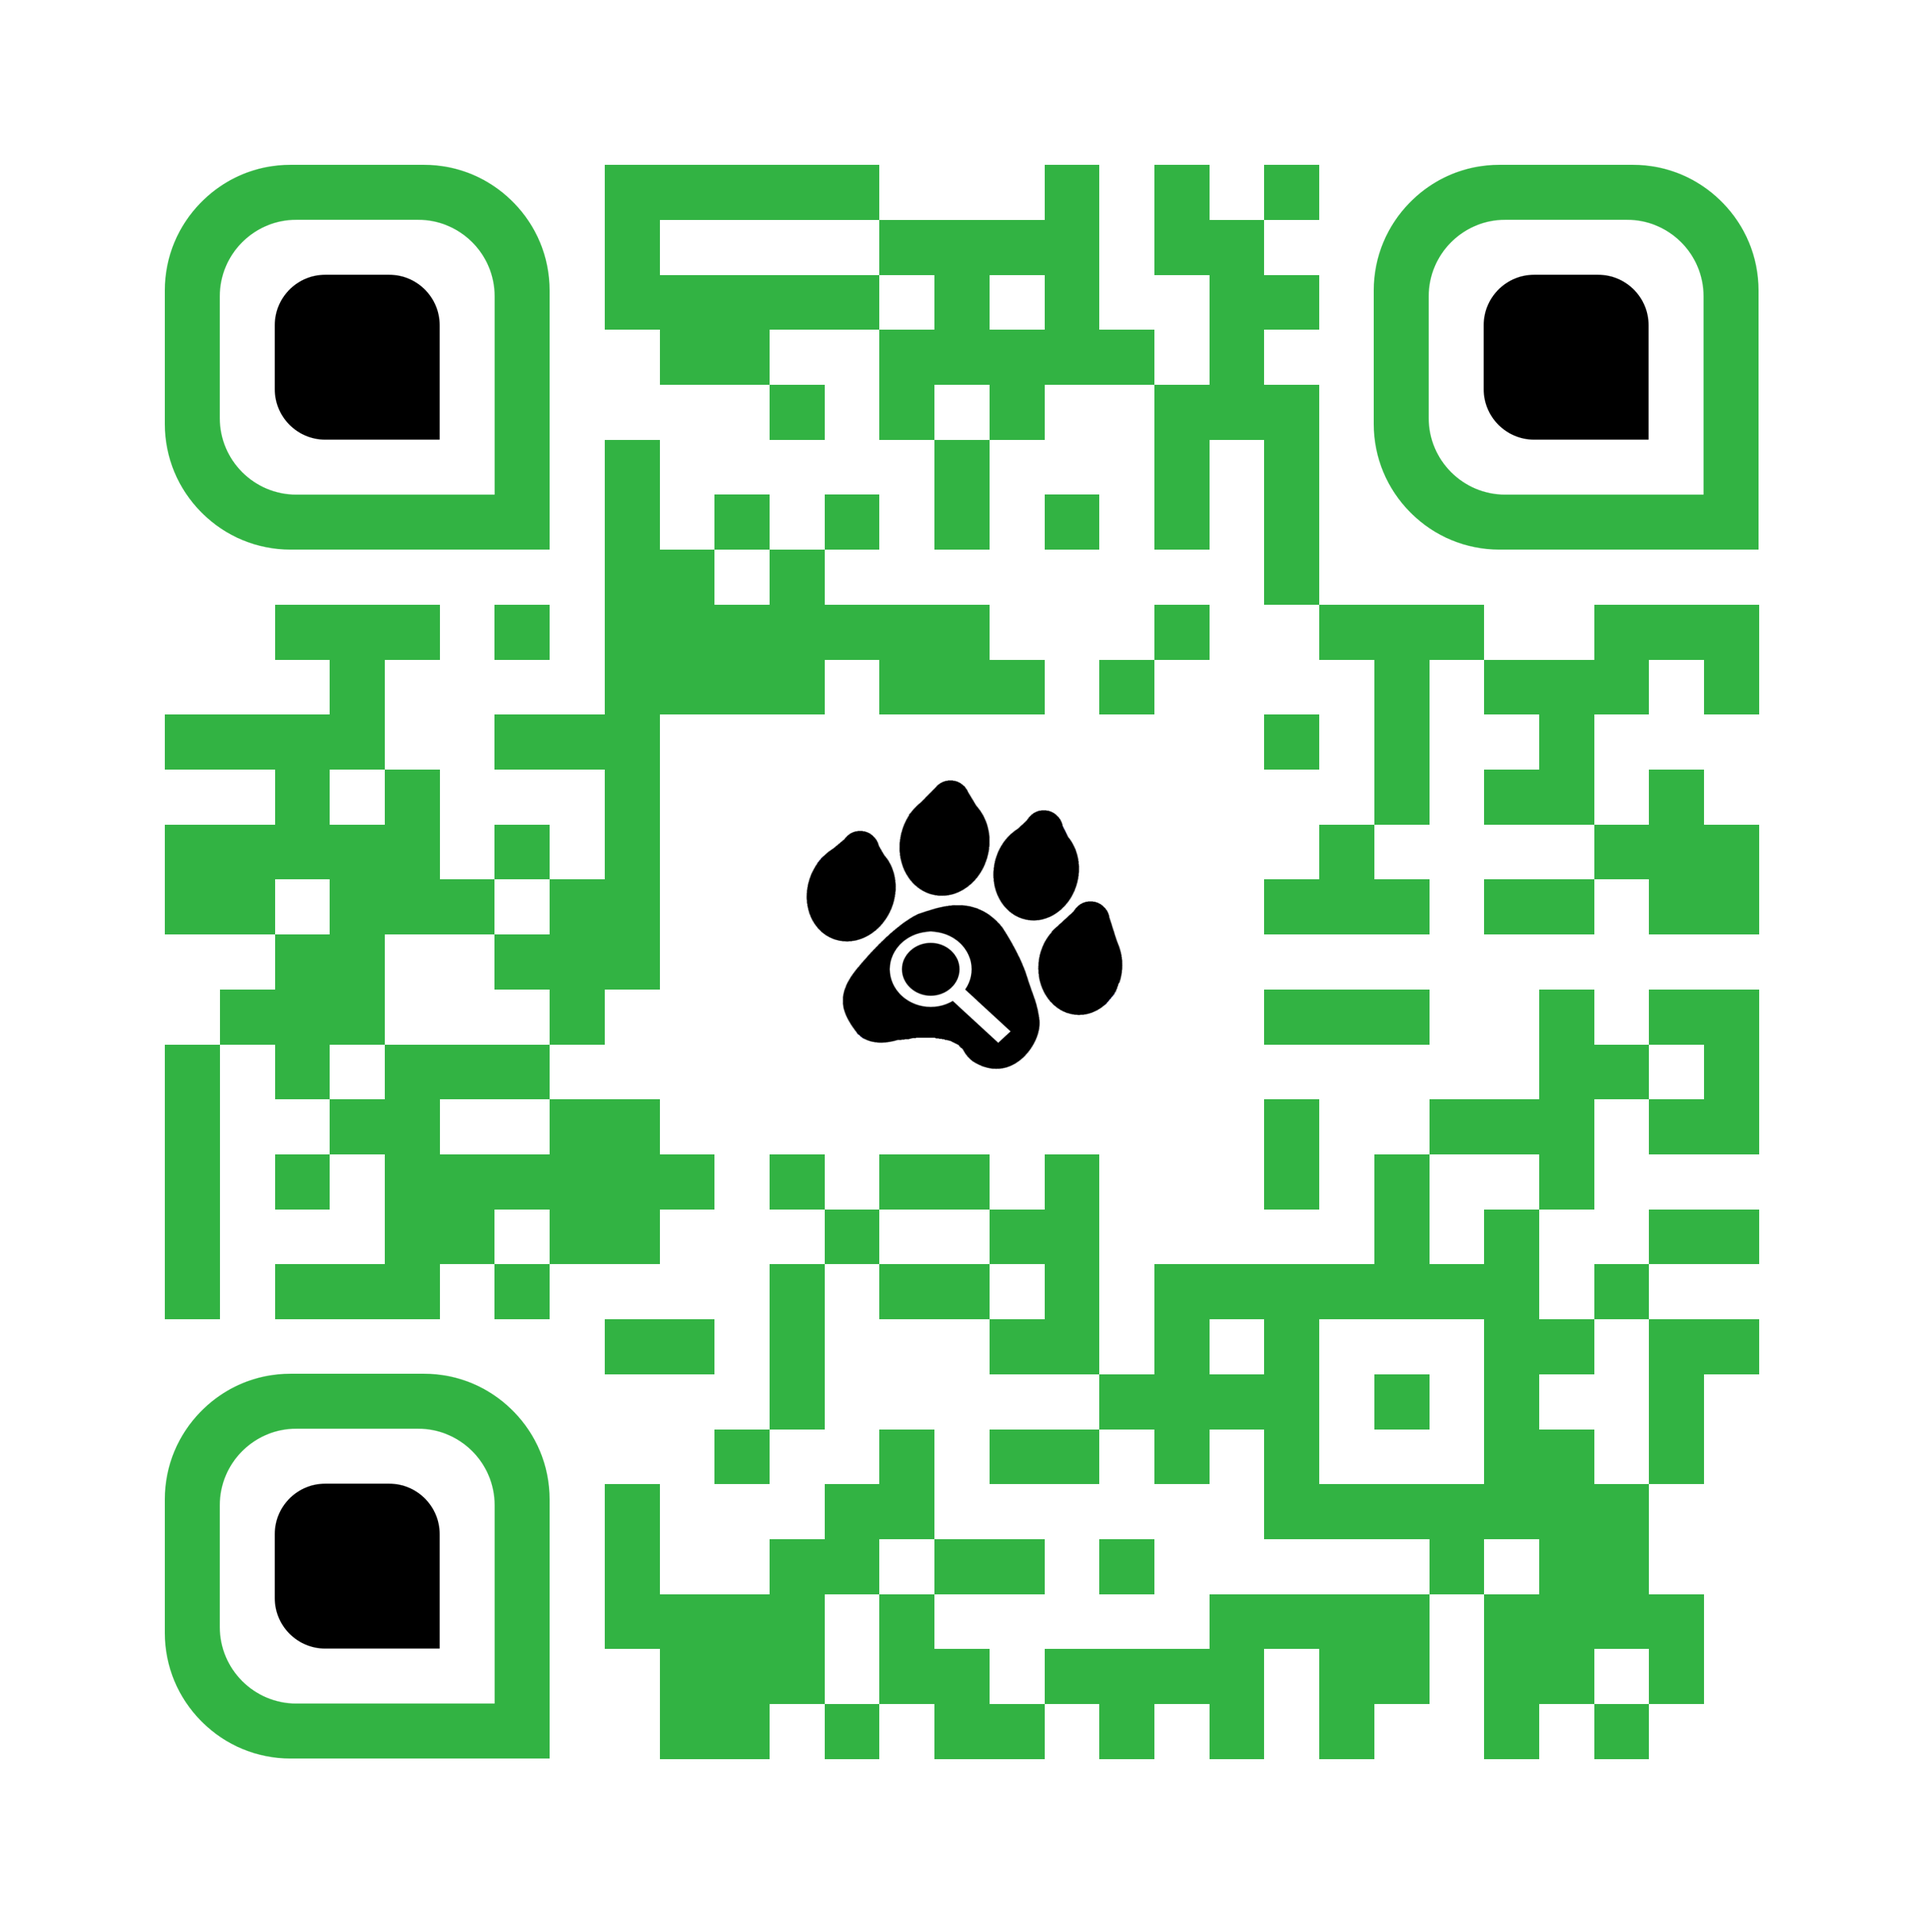
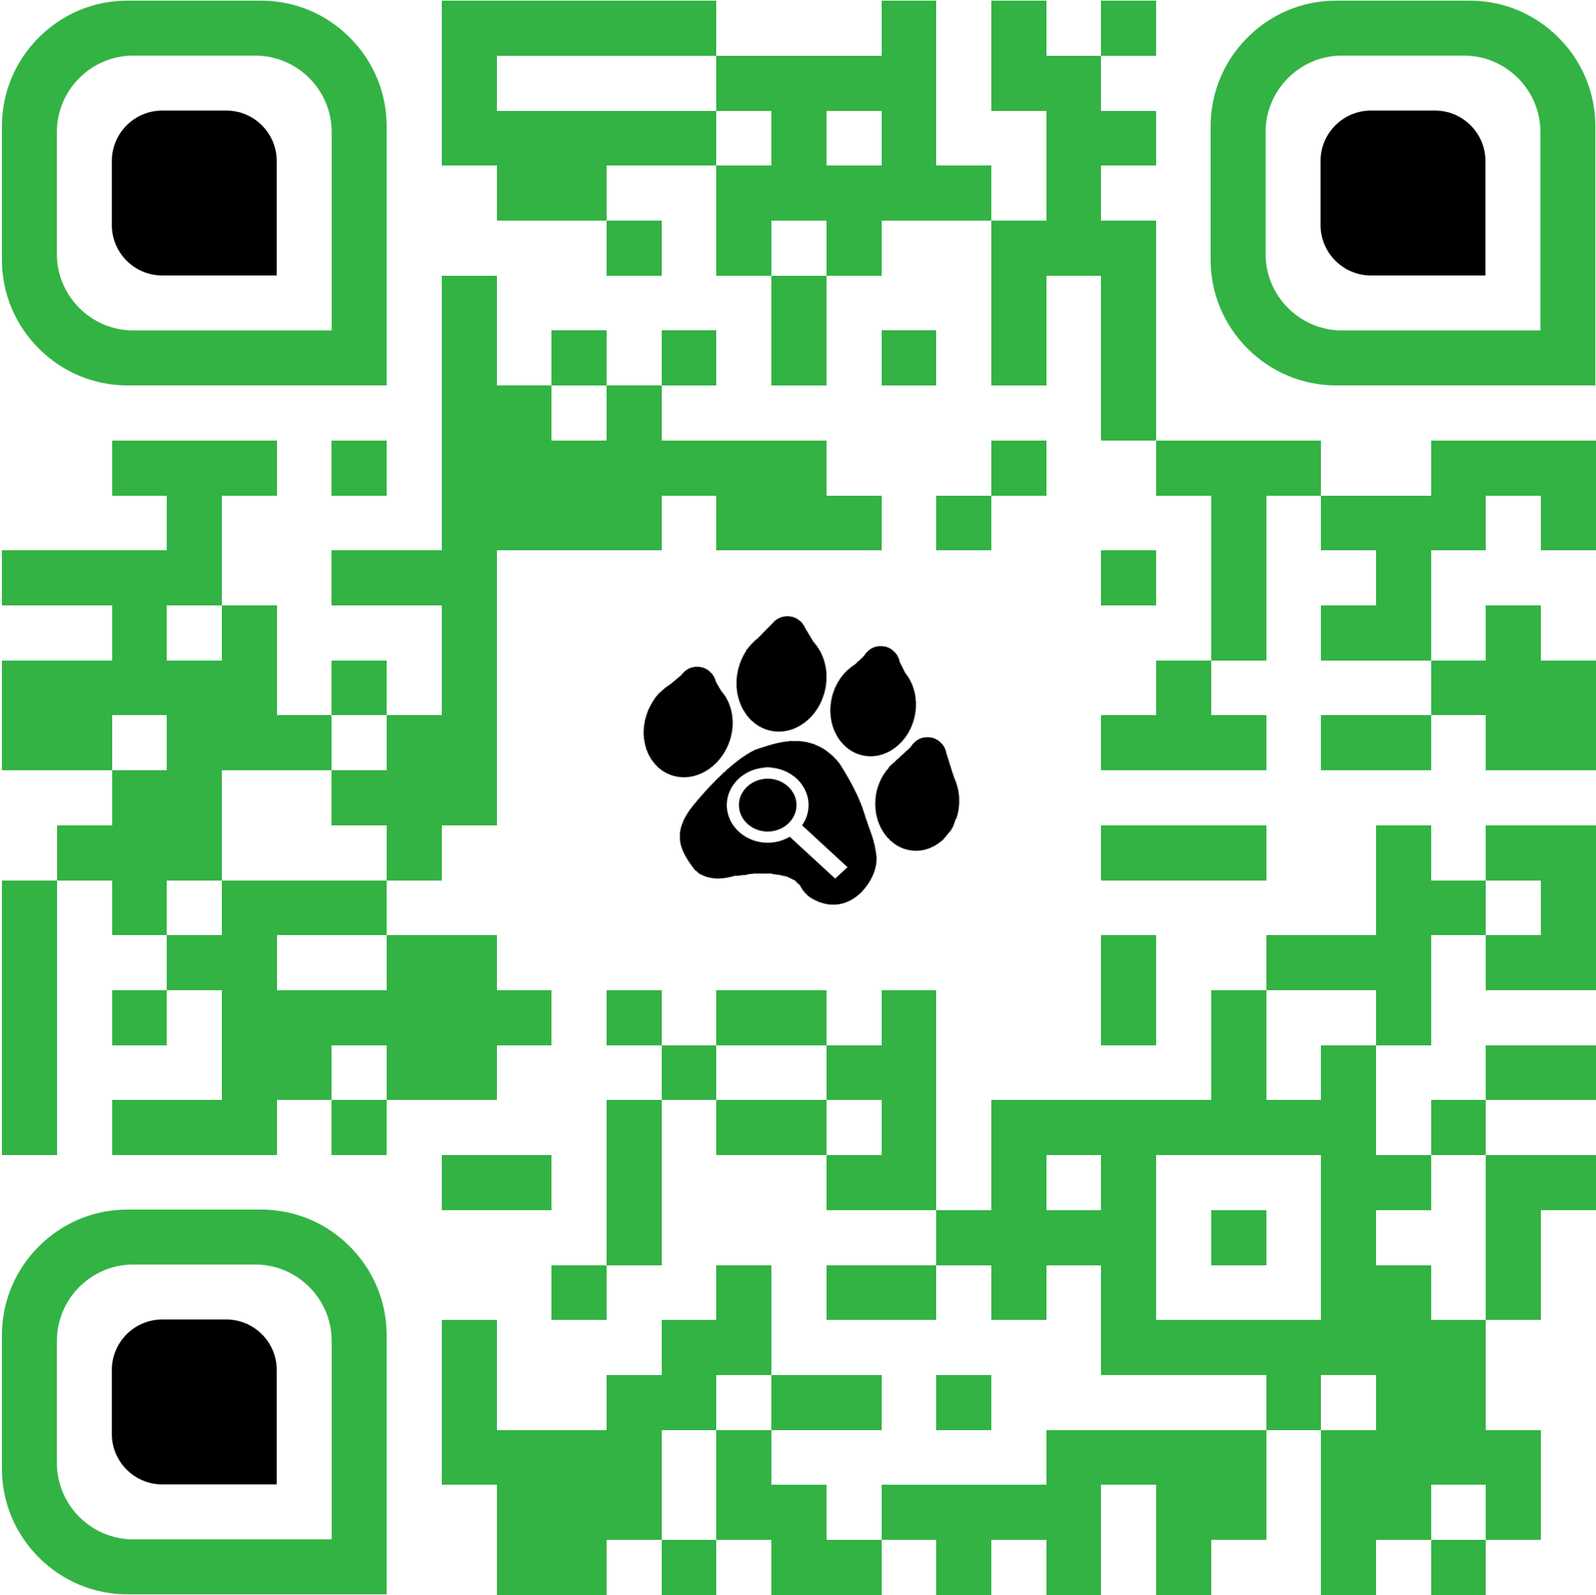
external profile pages

diff --git a/Frontend/screens/PetCard.js b/Frontend/screens/PetCard.js
@@ -28,7 +28,7 @@ export default class PetCard extends React.Component {
       if (this.state.qrOrImgToggle) {
         return (<View style={{flex: 1, flexDirection: 'row', marginTop: 10, marginLeft: 10}}>
         <QRCode
-        content={`retrievr-api.herokuapp.com/missing-posters#${this.props.selectedPet.id}`}
+        content={`retrievr-api.herokuapp.com/profile/${this.props.selectedPet.id}`}
         size={140}
         codeStyle='circle'
         outerEyeStyle='circle'
@@ -65,7 +65,7 @@ export default class PetCard extends React.Component {
     if (this.state.qrOrImgToggle) {
       return (<View style={{flex: 1, flexDirection: 'row', marginTop: 10, marginLeft: 10}}>
           <QRCode
-          content={`retrievr-api.herokuapp.com/missing-posters#${this.props.selectedPet.id}`}
+          content={`retrievr-api.herokuapp.com/profile/${this.props.selectedPet.id}`}
           size={140}
           codeStyle='circle'
           outerEyeStyle='circle'

diff --git a/Frontend/screens/ToggleMissing.js b/Frontend/screens/ToggleMissing.js
@@ -34,8 +34,7 @@ class ToggleMissing extends React.Component {
     fetch(`http://retrievr-api.herokuapp.com/api/v1/pets/${this.props.selectedPet.id}`)
     .then(result => result.json())
     .then(pet => {
-      if (pet.found_latitude) {
-        console.log(pet.found_latitude);
+      if (pet.finder_name) {
         this.setState({ finderPhone: pet.finder_phone_number, petHasBeenLocated: true, lat: pet.found_latitude, lon: pet.found_longitude })
         Alert.alert(
           `${this.props.selectedPet.name} has been found!`,

diff --git a/Frontend/screens/LinksScreen.js b/Frontend/screens/LinksScreen.js
@@ -28,7 +28,6 @@ class LinksScreen extends React.Component {
   async componentDidMount() {
     const { status } = await Permissions.askAsync(Permissions.CAMERA);
     this.setState({ hasCameraPermission: status === 'granted'  });
-    geolocation.requestAuthorization();
   }
 
   runBarCodeScanner = () => {

diff --git a/Backend/app/controllers/api/v1/vets_controller.rb b/Backend/app/controllers/api/v1/vets_controller.rb
@@ -1,42 +1,44 @@
 class Api::V1::VetsController < ApplicationController
+
   before_action :find_vet, only: [:update, :show]
+
   def index
-  @vets = Vet.all
-  render json: @vets
+    @vets = Vet.all
+    render json: @vets
   end
 
   def show
-  @vet = Vet.find(params[:id])
-  render json: @vet, status: :OK
+    @vet = Vet.find(params[:id])
+    render json: @vet, status: :OK
   end
 
   def create
-  @vet = Vet.create(vet_params)
-  render json: @vet, status: :created
+    @vet = Vet.create(vet_params)
+    render json: @vet, status: :created
   end
 
   def update
-  @vet.update(vet_params)
+    @vet.update(vet_params)
   if @vet.save
     render json: @vet, status: :accepted
-  else
-    render json: { errors: @vet.errors.full_messages }, status: :unprocessible_entity
-  end
+    else
+      render json: { errors: @vet.errors.full_messages }, status: :unprocessible_entity
+    end
   end
 
   def destroy
-  @vet = Vet.find(params[:id])
-  @vet.destroy
-  render json: @vet, status: :deleted
+    @vet = Vet.find(params[:id])
+    @vet.destroy
+    render json: @vet, status: :deleted
   end
 
   private
 
   def vet_params
-  params.permit(:name, :phone_number, :location)
+    params.permit(:name, :phone_number, :location)
   end
 
   def find_vet
-  @vet = Vet.find(params[:id])
+    @vet = Vet.find(params[:id])
   end
 end

diff --git a/Backend/app/controllers/api/v1/pets_controller.rb b/Backend/app/controllers/api/v1/pets_controller.rb
@@ -1,12 +1,14 @@
 class Api::V1::PetsController < ApplicationController
+
   before_action :find_pet, only: [:update, :show]
+
   def index
     @pets = Pet.all
     render json: @pets
   end
 
   def show
-    render json: @pet
+    render json: @pet 
   end
 
   def create
@@ -32,6 +34,6 @@ class Api::V1::PetsController < ApplicationController
   end
 
   def pet_params
-    params.permit(:id, :name, :age, :breed, :missing, :image, :last_vet_visit, :missing_latitude, :missing_longitude, :found_latitude, :found_longitude, :finder_name, :finder_phone_number, :user_id, :vet_id, :instagram)
+    params.permit(:id, :name, :age, :breed, :missing, :image, :last_vet_visit, :missing_latitude, :missing_longitude, :found_latitude, :found_longitude, :finder_name, :finder_phone_number, :user_id, :vet_id, :instagram, :posters_id)
   end
 end

diff --git a/Backend/app/controllers/api/v1/users_controller.rb b/Backend/app/controllers/api/v1/users_controller.rb
@@ -1,5 +1,7 @@
 class Api::V1::UsersController < ApplicationController
-    before_action :find_user, only: [:update]
+
+  before_action :find_user, only: [:update]
+
   def index
     @users = User.all
     render json: @users

diff --git a/Backend/app/controllers/web_controller.rb b/Backend/app/controllers/web_controller.rb
@@ -1,6 +1,11 @@
 class WebController < ActionController::Base
   def index
     @posters = Poster.all
-    render :index 
+    render :index
+  end
+
+  def show
+    @pet = Pet.find(params[:id])
+    render :show
   end
 end

diff --git a/Backend/app/controllers/api/v1/posters_controller.rb b/Backend/app/controllers/api/v1/posters_controller.rb
@@ -1,5 +1,7 @@
 class Api::V1::PostersController < ApplicationController
+
   before_action :find_poster, only: [:update, :show]
+
   def index
     @posters = Poster.all
     render json: @posters

diff --git a/Backend/config/routes.rb b/Backend/config/routes.rb
@@ -8,4 +8,5 @@ Rails.application.routes.draw do
     end
   end
   get '/missing-posters', to: 'web#index'
+  get '/profile/:id', to: 'web#show'
 end
